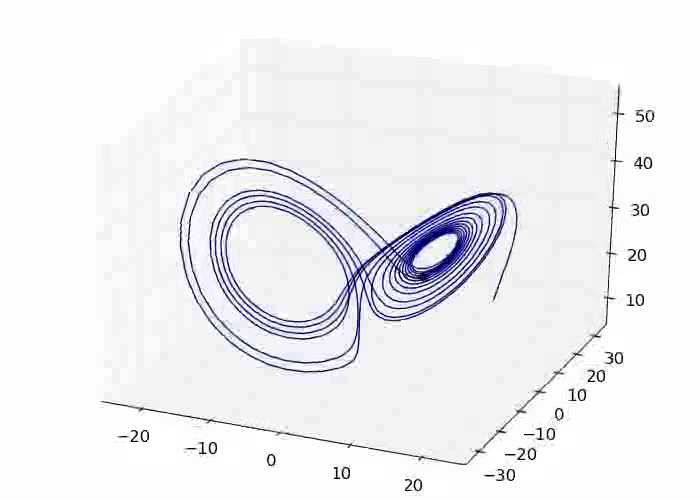
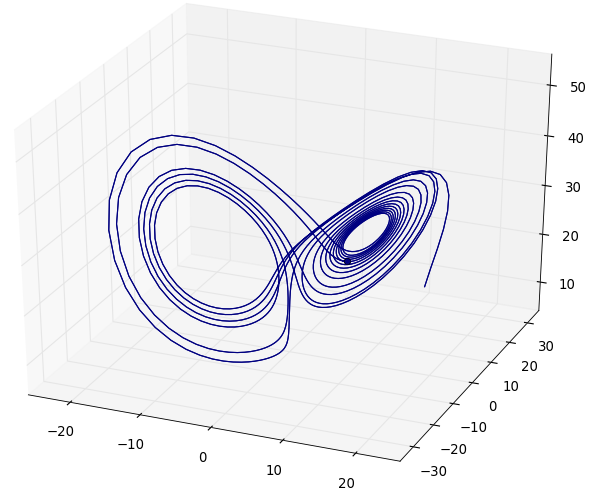
improved images

diff --git a/strange_attractor/lorentz_animation.py b/strange_attractor/lorentz_animation.py
@@ -30,7 +30,7 @@ x_t = np.asarray([integrate.odeint(lorentz_deriv, x0i, t)
 # Set up figure & 3D axis for animation
 fig = plt.figure(figsize=[7,5])
 ax = fig.add_axes([0, 0, 1, 1], projection='3d')
-ax.axis('off')
+ax.axis('on')
 
 # choose a different color for each trajectory
 colors = plt.cm.jet(np.linspace(0, 1, N_trajectories))
@@ -81,7 +81,7 @@ anim = animation.FuncAnimation(fig, animate, init_func=init,
                                frames=500, interval=30, blit=True)
 
 # Save as mp4. This requires mplayer or ffmpeg to be installed
-anim.save('lorentz_attractor.mp4', fps=15)
+#anim.save('lorentz_attractor.mp4', fps=15)
 
 
 plt.show()
